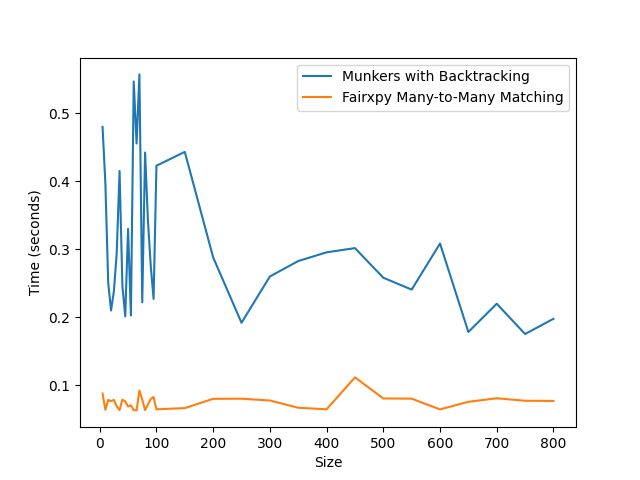
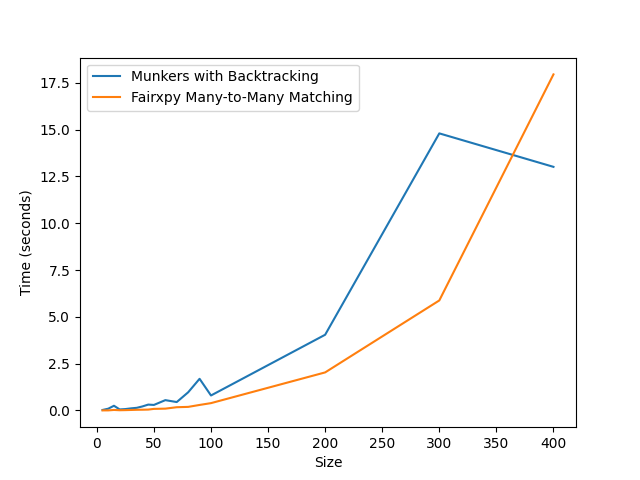
Updated the comparison to Faipyx function, to include the total sum comparison as well.

diff --git a/networkz/simulations/M_to_M_simulation/simulation.py b/networkz/simulations/M_to_M_simulation/simulation.py
@@ -7,11 +7,12 @@ import numpy as np
 import time
 import pandas as pd
 import matplotlib.pyplot as plt
-from fairpyx.utils.graph_utils import many_to_many_matching
+from collections import defaultdict
+from fairpyx.utils.graph_utils import many_to_many_matching, many_to_many_matching_using_network_flow
 from networkz.algorithms.bipartite.many_to_many_assignment import kuhn_munkers_backtracking
 import experiments_csv as ec
 
-def measure_time(func, *args) -> tuple[float, any]:
+def measure_time(func, *args, **kwargs) -> tuple[float, any]:
     """
     Measure the execution time of a function
 
@@ -26,7 +27,7 @@ def measure_time(func, *args) -> tuple[float, any]:
     - `result` : any
     """
     start_time = time.time()
-    result = func(*args)
+    result = func(*args, **kwargs)
     end_time = time.time()
     return end_time - start_time, result
 
@@ -60,6 +61,49 @@ def generate_random_test_case(num_agents, num_tasks, max_ability, max_task_range
     
     return ability_agent_vector, task_range_vector, performance_matrix
 
+def calculate_total_cost(assignments, performance_matrix):
+    """
+    Calculate the total cost from the assignments.
+
+    Parameters
+    ----------
+    - `assignments` : dict
+    - `performance_matrix` : np.array
+
+    Returns
+    ----------
+    - `total_cost` : float
+    """
+    total_cost = 0
+    for agent, tasks in assignments.items():
+        agent_index = int(agent.split('_')[1])
+        for task in tasks:
+            if task != -1:
+                task_index = int(task.split('_')[1])
+                total_cost += performance_matrix[agent_index, task_index]
+    return total_cost
+
+def transform_backtrack_result(result):
+    """
+    Transform the Backtrack result to match the expected format.
+
+    Parameters
+    ----------
+    - `result` : list of tuples
+
+    Returns
+    ----------
+    - `dict` : dict
+    """
+    assignments = defaultdict(list)
+    for agent, tasks in result.items():
+        agent_key = f'agent_{agent}'
+        for task in tasks:
+            if task != -1:
+                task_key = f'item_{task}'
+                assignments[agent_key].append(task_key)
+    return assignments
+
 def run_experiment(size: int) -> dict:
     """
     Run the experiment for the given size.
@@ -73,7 +117,8 @@ def run_experiment(size: int) -> dict:
     - `dict` : dict
     """
     # Generate a random cost matrix of the given size
-    ability_agent_vector, task_range_vector, performance_matrix = generate_random_test_case(50, 50, 3, 3, 100)
+    ability_agent_vector, task_range_vector, performance_matrix = generate_random_test_case(num_agents=size, num_tasks=size, max_ability=3, max_task_range=3, max_performance_value=100)
+
 
     # Convert inputs for fairxpy function
     item_capacities = {f"item_{i}": task_range_vector[i] for i in range(len(task_range_vector))}
@@ -81,21 +126,36 @@ def run_experiment(size: int) -> dict:
     valuations = {f"agent_{i}": {f"item_{j}": performance_matrix[i][j] for j in range(len(performance_matrix[i]))} for i in range(len(performance_matrix))}
     
     # Measure time for custom implementation
-    munkers_with_backtracking_time,_ = measure_time(kuhn_munkers_backtracking, performance_matrix, ability_agent_vector, task_range_vector)
+    munkers_with_backtracking_time, backtrack_result = measure_time(kuhn_munkers_backtracking, performance_matrix, ability_agent_vector, task_range_vector)
+    # print(f'Backtrack Result: {backtrack_result}')
+    backtrack_result = transform_backtrack_result(backtrack_result)
+    backtrack_total_cost = calculate_total_cost(backtrack_result, performance_matrix)
 
     # Measure time for fairxpy implementation
-    fairxpy_time, _ = measure_time(many_to_many_matching, item_capacities, agent_capacities, valuations)
+    fairxpy_time, fairxpy_result = measure_time(
+        many_to_many_matching_using_network_flow, 
+        items=item_capacities.keys(), 
+        item_capacity=item_capacities.__getitem__,
+        agents=agent_capacities.keys(), 
+        agent_capacity=agent_capacities.__getitem__,
+        agent_item_value=lambda agent, item: -valuations[agent][item],
+        allow_negative_value_assignments=True
+    )
+    # print(f'Fairxpy Result: {fairxpy_result}')
+    faipyx_total_cost = calculate_total_cost(fairxpy_result, performance_matrix)
 
 
     # Return the results in the format expected by experiments_csv
     return {
         'size': size,
         'munkers_with_backtracking_time': munkers_with_backtracking_time,
-        'fairxpy_many_to_many_matching_time': fairxpy_time
+        'fairxpy_many_to_many_matching_time': fairxpy_time,
+        'backtrack_total_cost': backtrack_total_cost,
+        'faipyx_total_cost': faipyx_total_cost
     }
 
 input_ranges = {
-    'size': [5, 10, 15, 20, 25, 30, 35, 40, 45, 50, 55, 60, 65, 70, 75, 80, 85, 90, 95, 100, 150, 200, 250, 300, 350, 400, 450, 500, 550, 600, 650, 700, 750, 800]
+    'size': [5, 10, 15, 20, 25, 30, 35, 40, 45, 50, 60, 70, 80, 90, 100, 200, 300, 400]
 }
 
 # Initialize the experiment
@@ -112,7 +172,7 @@ print(df)
 
 # Plot the results
 plt.plot(df['size'], df['munkers_with_backtracking_time'], label='Munkers with Backtracking')
-plt.plot(df['size'], df['fairxpy_many_to_many_matching_time'], label='Fairxpy Many-to-Many Matching')
+plt.plot(df['size'], df['fairxpy_many_to_many_matching_time'], label='Fairpyx Many-to-Many Matching')
 plt.xlabel('Size')
 plt.ylabel('Time (seconds)')
 plt.legend()
